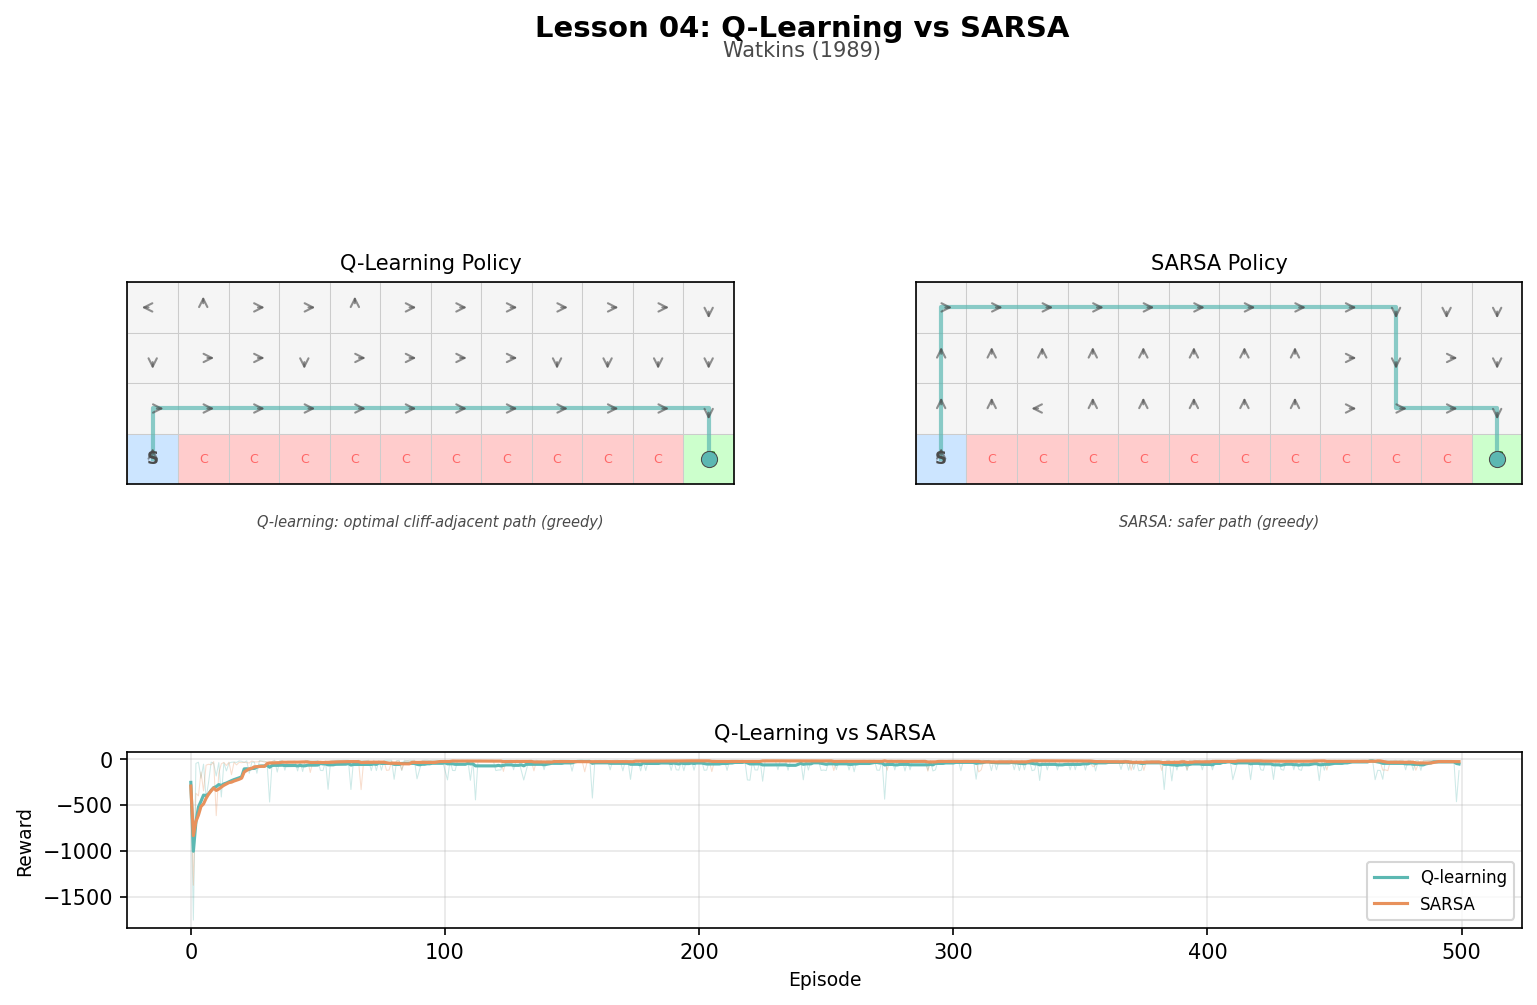
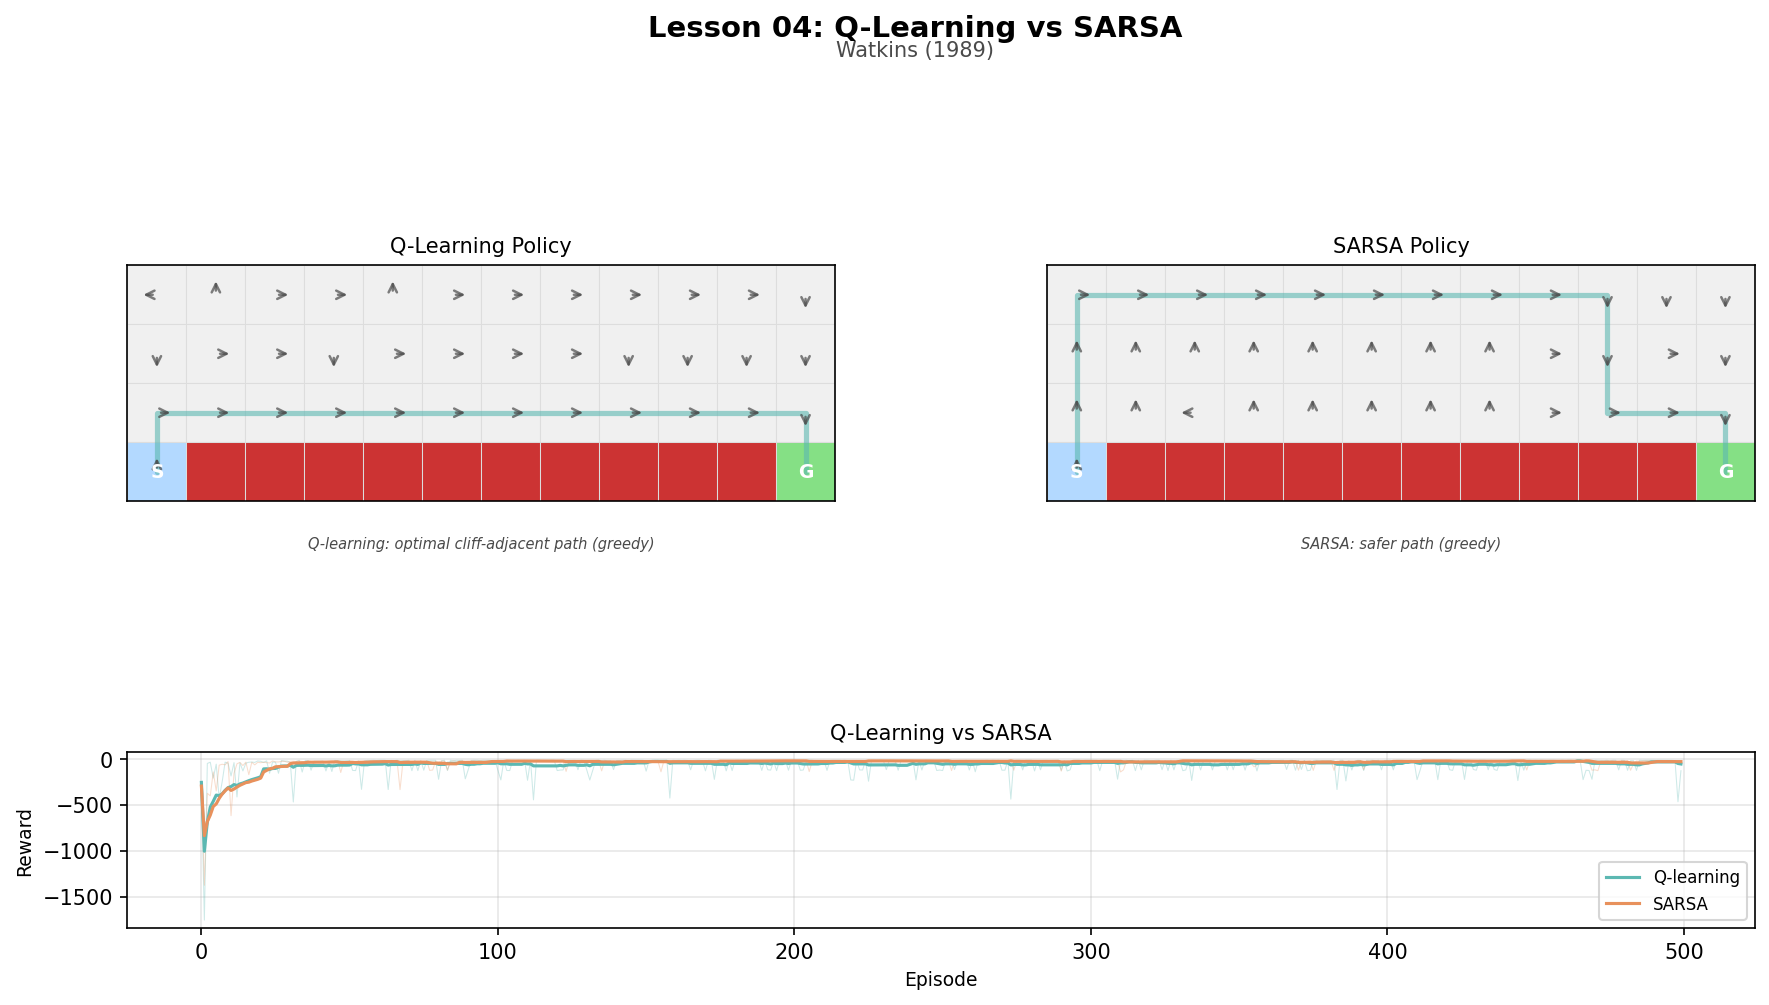
Improves cliff world visualization readability
draw_cliff_grid:
  - Bold red cliff cells (was light pink). Color conveys danger
    without needing "C" text labels.
  - trail_length parameter: step-by-step frames show only the
    last 4 positions, avoiding spaghetti on wandering episodes.
  - Larger agent marker, thicker path line, white S/G labels.

04_q_learning.py:
  - Wider figure (14x7) for the 4x12 grid aspect ratio.
  - Step-by-step frames use trail_length=4.
  - Summary frames show full path.

diff --git a/src/policywerk/viz/trajectories.py b/src/policywerk/viz/trajectories.py
@@ -66,48 +66,49 @@ def draw_cliff_grid(
     policy: dict[str, int] | None = None,
     caption: str | None = None,
     agent_pos: tuple[int, int] | None = None,
+    trail_length: int | None = None,
 ) -> None:
     """Draw a cliff walking grid with path, cliff cells, and optional policy arrows.
 
-    Shows the grid with cliff cells in red, start in blue, goal in green,
-    and the agent's path as a teal line.
+    trail_length: if set, only show the last N positions of the path
+        (avoids spaghetti on wandering episodes). None shows the full path.
     """
     ax.clear()
+    import matplotlib.patches as patches
+
+    cliff_set = set(cliff)
 
     # Draw grid cells
     for r in range(rows):
         for c in range(cols):
-            if (r, c) in cliff:
-                color = "#ffcccc"  # light red for cliff
+            if (r, c) in cliff_set:
+                color = "#cc3333"  # bold red for cliff (danger)
             elif (r, c) == start:
-                color = "#cce5ff"  # light blue for start
+                color = "#b3d9ff"  # blue for start
             elif (r, c) == goal:
-                color = "#ccffcc"  # light green for goal
+                color = "#85e085"  # green for goal
             else:
-                color = "#f5f5f5"  # light gray for normal
-            import matplotlib.patches as patches
+                color = "#f0f0f0"  # light gray for normal
             rect = patches.Rectangle((c - 0.5, r - 0.5), 1, 1,
-                                      facecolor=color, edgecolor="#cccccc",
+                                      facecolor=color, edgecolor="#dddddd",
                                       linewidth=0.5, zorder=1)
             ax.add_patch(rect)
 
-    # Label special cells
+    # Label start and goal only (cliff color speaks for itself)
     ax.text(start[1], start[0], "S", ha="center", va="center",
-            fontsize=8, fontweight="bold", color=DARK_GRAY, zorder=5)
+            fontsize=9, fontweight="bold", color="white", zorder=5)
     ax.text(goal[1], goal[0], "G", ha="center", va="center",
-            fontsize=8, fontweight="bold", color="green", zorder=5)
-    for r, c in cliff:
-        ax.text(c, r, "C", ha="center", va="center",
-                fontsize=6, color="red", alpha=0.5, zorder=5)
+            fontsize=9, fontweight="bold", color="white", zorder=5)
 
-    # Draw path
+    # Draw path (optionally trimmed to recent trail)
     if path and len(path) > 1:
-        xs = [c for r, c in path]
-        ys = [r for r, c in path]
-        ax.plot(xs, ys, color=TEAL, linewidth=2, alpha=0.7, zorder=3)
-        # Agent marker at last position
-        ax.scatter([xs[-1]], [ys[-1]], c=TEAL, s=60, zorder=6,
-                   edgecolors=DARK_GRAY, linewidths=0.5)
+        display_path = path
+        if trail_length is not None and len(path) > trail_length:
+            display_path = path[-trail_length:]
+        xs = [c for r, c in display_path]
+        ys = [r for r, c in display_path]
+        ax.plot(xs, ys, color=TEAL, linewidth=2.5, alpha=0.6,
+                solid_capstyle="round", zorder=3)
 
     # Draw policy arrows
     if policy:
@@ -116,20 +117,20 @@ def draw_cliff_grid(
         for label, action in policy.items():
             parts = label.split(",")
             r, c = int(parts[0]), int(parts[1])
-            if (r, c) in cliff or (r, c) == goal:
+            if (r, c) in cliff_set or (r, c) == goal:
                 continue
             dx = arrow_dx.get(action, 0)
             dy = arrow_dy.get(action, 0)
             ax.annotate("", xy=(c + dx, r + dy), xytext=(c, r),
                          arrowprops=dict(arrowstyle="->", color=DARK_GRAY,
-                                         lw=1, alpha=0.6),
+                                         lw=1.2, alpha=0.7),
                          zorder=4)
 
     # Agent marker (orange triangle) at current position
     if agent_pos is not None:
         ar, ac = agent_pos
-        ax.scatter([ac], [ar], marker="v", s=120,
-                   color=ORANGE, edgecolors=DARK_GRAY, linewidths=0.5, zorder=8)
+        ax.scatter([ac], [ar], marker="v", s=150,
+                   color=ORANGE, edgecolors=DARK_GRAY, linewidths=1, zorder=8)
 
     ax.set_xlim(-0.5, cols - 0.5)
     ax.set_ylim(rows - 0.5, -0.5)  # invert y so row 0 is at top

diff --git a/lessons/04_q_learning.py b/lessons/04_q_learning.py
@@ -312,6 +312,7 @@ def main():
     fig, axes = create_lesson_figure(
         "Lesson 04: Q-Learning",
         subtitle="Watkins (1989) -- policy arrows settle into a route",
+        figsize=(14, 7),  # wider for the 4x12 grid
     )
 
     ql_rewards = [h["total_reward"] for h in hist_ql]
@@ -320,11 +321,14 @@ def main():
         snap = snapshots[frame_idx]
 
         # Top-left: cliff grid with path and agent marker
+        # Step-by-step frames show only a short trail (last 4 positions)
+        # to avoid spaghetti. Summary frames show the full path.
+        trail = 4 if not snap.completed else None
         draw_cliff_grid(axes["env"], CliffWorld.ROWS, CliffWorld.COLS,
                         cliff_cells, CliffWorld.START, CliffWorld.GOAL,
                         path=snap.path, policy=snap.policy,
-                        caption="Cliff world: reach G from S, avoid C (-100)",
-                        agent_pos=snap.agent_pos)
+                        caption="Cliff world: reach G from S, avoid the red cliff",
+                        agent_pos=snap.agent_pos, trail_length=trail)
         title = snap.step_label if snap.step_label else f"Episode {snap.episode_num}"
         axes["env"].set_title(title, fontsize=10)
 
@@ -370,6 +374,7 @@ def main():
     fig2, axes2 = create_lesson_figure(
         "Lesson 04: Q-Learning vs SARSA",
         subtitle="Watkins (1989)",
+        figsize=(14, 7),
     )
 
     def update_poster(frame_idx):
